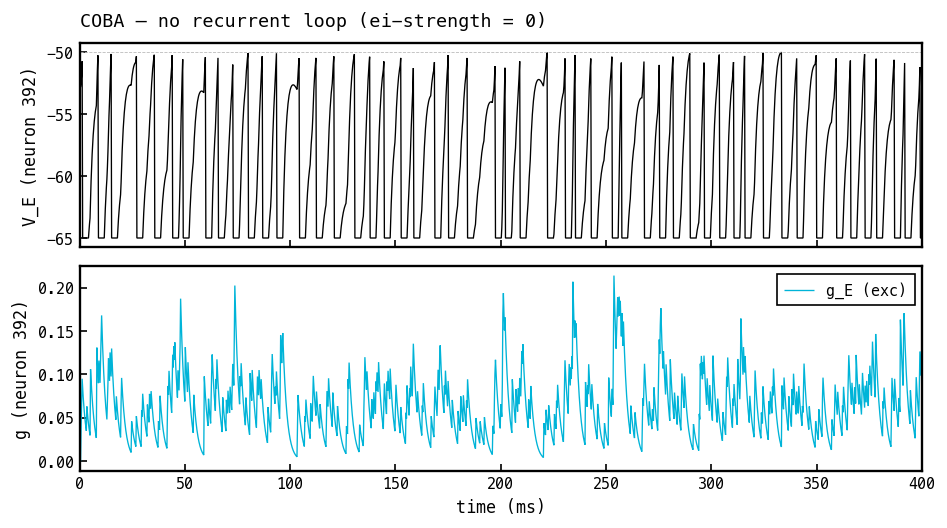
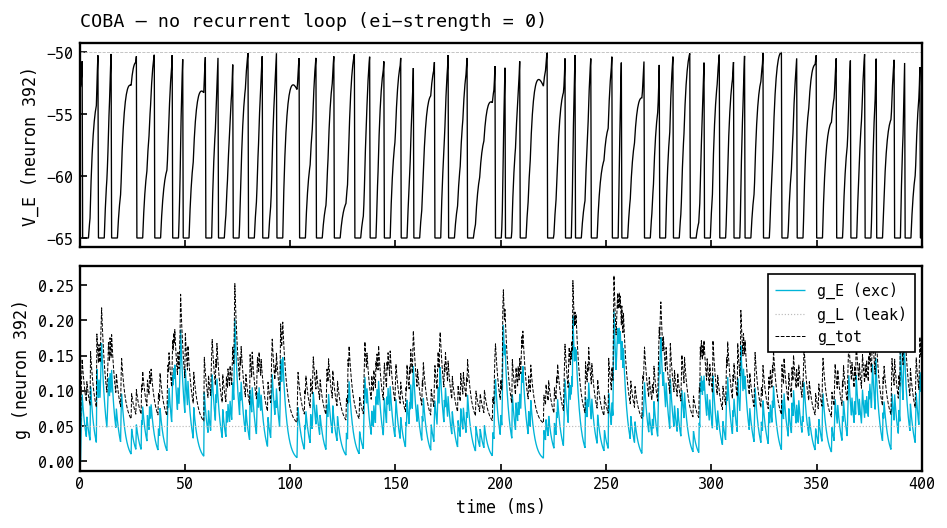
nb023 plot_traces: add g_L and g_tot traces to conductance subplots
For each conductance subplot (E and I) overlay two more traces:
- g_L (leak, constant): dotted line at 0.05 µS for E, 0.1 µS for I,
  matching the per-population leak from models.py
- g_tot = g_L + g_e (+ g_i for E only): dashed black, showing the
  per-step aggregate that sets τ_eff and V_∞ in the membrane equation

The g_tot trace makes the I-loop's shunting visible directly — for E
in PING mode, g_tot tracks the rhythmic g_I bursts; for I, g_tot
tracks g_e during recruitment. The leak baseline gives a scale anchor.

Figures regenerated locally (11.7s).

Changed region(s): [[0.0306, 0.5152, 0.9799, 0.8485]]

diff --git a/src/pinglab/notebooks/nb023.py b/src/pinglab/notebooks/nb023.py
@@ -164,11 +164,20 @@ def plot_traces(npz_path: Path, out_path: Path, title: str) -> None:
     ax_ve.set_xlim(0, T * dt)
     ax_ve.set_title(title)
 
+    # Per-population leak conductances (from models.py — pinned constants).
+    G_L_E = 0.05  # µS, C_m_E / tau_m_E
+    G_L_I = 0.10  # µS, C_m_I / tau_m_I
+
     ax_ge = axes[1]
     ax_ge.plot(t_ms, ge_e[:, e_idx], color=theme.ELECTRIC_CYAN, lw=0.8, label="g_E (exc)")
+    gi_trace = None
     if has_gi_e:
         gi_e = data["gi_e_1"]
-        ax_ge.plot(t_ms, gi_e[:, e_idx], color=theme.DEEP_RED, lw=0.8, label="g_I (inh)")
+        gi_trace = gi_e[:, e_idx]
+        ax_ge.plot(t_ms, gi_trace, color=theme.DEEP_RED, lw=0.8, label="g_I (inh)")
+    ax_ge.axhline(G_L_E, color=theme.FAINT, lw=0.7, ls=":", label="g_L (leak)")
+    g_tot_e = ge_e[:, e_idx] + G_L_E + (gi_trace if gi_trace is not None else 0.0)
+    ax_ge.plot(t_ms, g_tot_e, color=theme.INK_BLACK, lw=0.6, ls="--", label="g_tot")
     ax_ge.set_ylabel(f"g (neuron {e_idx})")
     ax_ge.set_xlim(0, T * dt)
     ax_ge.legend(loc="upper right", fontsize=theme.SIZE_LEGEND)
@@ -184,6 +193,9 @@ def plot_traces(npz_path: Path, out_path: Path, title: str) -> None:
 
         ax_gi = axes[3]
         ax_gi.plot(t_ms, ge_i[:, i_idx], color=theme.ELECTRIC_CYAN, lw=0.8, label="g_E (exc)")
+        ax_gi.axhline(G_L_I, color=theme.FAINT, lw=0.7, ls=":", label="g_L (leak)")
+        g_tot_i = ge_i[:, i_idx] + G_L_I  # I receives no inhibition
+        ax_gi.plot(t_ms, g_tot_i, color=theme.INK_BLACK, lw=0.6, ls="--", label="g_tot")
         ax_gi.set_ylabel(f"g (neuron {i_idx})")
         ax_gi.set_xlim(0, T * dt)
         ax_gi.legend(loc="upper right", fontsize=theme.SIZE_LEGEND)